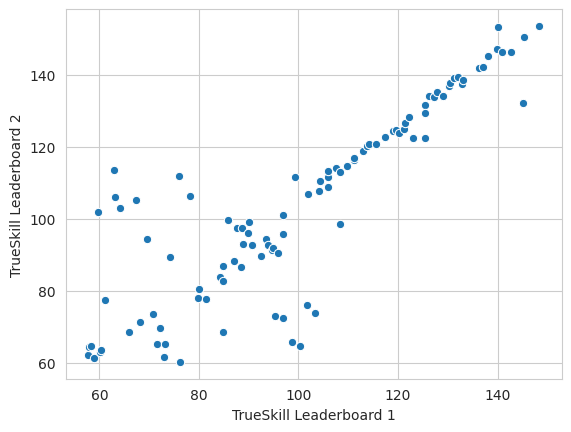
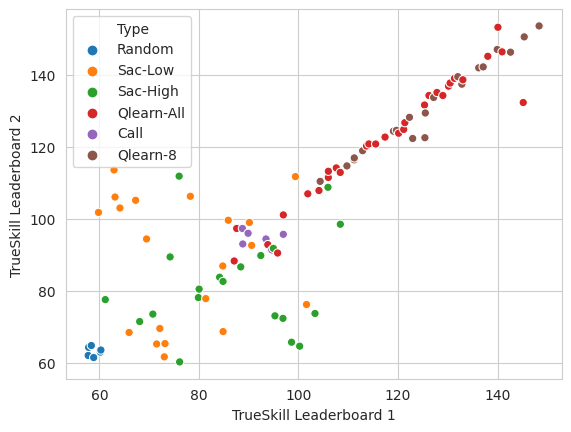
Updated some todos

diff --git a/Implementation/implementation.tex b/Implementation/implementation.tex
@@ -4,19 +4,17 @@
 We set up a modular training environment to compare different agent populations. The different divisions can be used to observe how agents influence each other, which match up method produces the best results, and allows comparing agents that have not been trained against each other. \todo{fix wording}
 
 \subsection{Agent Manager}
-The agent manager is the \todo{phrasing} single source of truth for all agents, and is responsible for instantiating agents. It tags every agent with a unique id so other components only need to store agent id. This removes redundancy and also makes it easy to change agent information without side effects.
+The agent manager is the single source of truth for all agents, and is responsible for instantiating agents. It tags every agent with a unique id so other components only need to store agent id. This removes redundancy and also makes it easy to change agent information without side effects.
 
-\todo{phrasing?}
 The agent manager keeps all important information about an agent: type, paths to model files, whether the agent is trainable or not, origin division and its name.
 \todo{explain more}
 
 \subsection{Leaderboard}
 A leaderboard ranks agents from best to worst according to one of the metrics. There are several different types of leaderboards using different metrics (e.g. TrueSkill, winnings, etc.). When a match in a division concludes, all leaderboards attached to the division are updated with the results. Further detail on the different metrics in section \ref{PerformanceMetricsSection}.
 
-\todo{matchup or match up}
+\todo{matchup, match-up, or match up?}
 
 \subsection{Divisions}
-\todo{explain what a division is}
 A division is responsible for generating match ups between agents, running games, and updating leaderboards with the results. There are several types of divisions with different match up rules.
 
 Divisions differentiate between two types of agents: teachers and students. A student is trainable, using one of the algorithms discussed in section \ref{ReinforcementLearningChapter} and adapts its behavior during play. A teacher does not change its behavior and is either a baseline with hard-coded behavior or a clone of a student with fixed weights. Divisions usually have their own set of agents and do not influence outside agents. However, there are some exceptions, as will be explained in sections \ref{PermEvalSimilarDiv} and \ref{PermEvaldirectDiv}.
@@ -27,11 +25,10 @@ The random division requires at least one student and one teacher, and keeps a l
 \subsubsection{Climbing Division}
 The climbing division also requires at least one student and one teacher, and keeps a list of its own agents. Unlike the random division, this division requires a TrueSkill-based leaderboard to function. The goal of this division is to match students more frequently against better teachers.
 
-This division selects teachers weighted by their TrueSkill rating. The probability of an agent being selected is:
+This division selects teachers weighted by their TrueSkill rating. Let $\mu_i$ denote the TrueSkill rating of the $i$'th agent, then that agent's probability $p(Selected)$ among the $n$ other agents is:
 \begin{equation}
-  P_i = \frac{{ts_i}^2}{\sum_{j=0}^{n} {ts_j}^2}
+  p(Selected) = \frac{{\mu_i}^2}{\sum_{j=0}^{n} {\mu_j}^2}
 \end{equation}
-\todo{update symbol table}
 This is repeated five times, making it likely that the best agent is chosen multiple times.
 
 This has two problems: first, a new agent is assumed to have an average rating, but is likely one of the best agents. Because of this, the agent might only rarely play and therefore take a long time to converge to its actual TrueSkill rating. Second, with a large number of agents there is an inequality between the number of games played per agent which also causes the TrueSkill rating of rarely appearing agents to be unreliable.
@@ -46,7 +43,7 @@ This division does not have an internal agent list, and uses the agent manager d
 \subsubsection{Permanent Evaluation Direct Division}\label{PermEvaldirectDiv}
 Short "PermaEvalDirect", this division is special, as it compares only two agents against each other. It selects two random agents from the entire pool and creates three instances of each agent. The two agents must be different and the division tracks previously run matchups and prioritizes those that were not run before.
 
-This division is specifically designed to compute the winnings \todo{refere to winning metric} metric.
+This division is specifically designed to compute the winnings metric (section \ref{Winnings}).
 
 \subsection{Division Manager}
 The division manager works similarly to the agent manager in that it handles all divisions with their configurations and tags every division with a unique id. This is used to simplify the running of games, as user can simply add divisions with the desired configuration and agent constellation and then specify which divisions should be run.
@@ -57,23 +54,25 @@ The division manager works similarly to the agent manager in that it handles all
 We did not reimplement TrueSkill, instead using an existing python implementation \cite{TrueSkill_code}. We used a $\beta$ of $\frac{25}{6}$ and a starting distribution $\mathcal{N}(\mu=100, \sigma=30)$ for new agents.
 
 \subsection{Winnings}
+\label{Winnings}
 The winnings metric compares agents in a direct confrontation against each other by matching up both agents with three copies each. For both the average winning is calculated and added to a matrix of all agents.
 
-Seats are randomized to minimize the advantage gained by a better seat. Ideally all seating combinations would be run for an equal number of hands, but this was not implemented because of increased complexity and computational time needed. \todo{add graphic here or only at results?} To improve runtime, matchups that have not been played are first in line for the next evaluation. Because of the quadratic growth of matchups needed this metric is not a good choice for a large number of agents.
+Seats are randomized to minimize the advantage gained by a better seat. Ideally all seating combinations would be run for an equal number of hands, but this was not implemented because of increased complexity and computational time needed.
+
+To improve runtime, matchups that have not been played are first in line for the next evaluation. Because of the quadratic growth of matchups needed this metric is not a good choice for a large number of agents.
 
 To generate a leaderboard from the winnings matrix, the following measures are used:
-\todo{Finish this section}
-- mean of winnings
-- median of winnings, this has the advantage of not being screwed by different performances against very bad agents (e.g. the baseline agents)
-- percentiles (e.g. 10pctl) of winnings, this has the advantage of showing how the agent performs against it's worst match-ups (not to be confused with the best agents) because of possible exploiter agents
-
-\todo{fix numbering}
+\begin{itemize}
+    \item mean of winnings
+    \item median of winnings, which has the advantage of not being distorted by different performance against terrible agents (e.g. baseline agents)
+    \item percentiles (e.g. 20pctl) of winnings, which has the advantage of showing how the agent performs against its worst matchups, giving a measure of robustness
+\end{itemize}
 
 \subsection{Kendall's Tau}
 
 We use Kendall's Tau \cite{KendallTau} in section \ref{Results} as a measure of distance between rankings. This allows us to describe the similarity between rankings of different measures or between different divisions containing the same agents.
 
-\todo{short explanation of what kendall tau actually does}
+\todo{short explanation of what kendall's tau actually does}
 
 We did not implement the measure ourselves, instead using SciPy's implementation \cite{Scipy} with default parameters.
 
@@ -87,11 +86,9 @@ Some agents play worse than others in all situations. Others might usually win, 
 
 To distinguish which agents were exploiting which how much, we measure cashflow; how much money was each agent giving over to each agent on average.
 
-\todo{IMAGE: insert example cashflow}
-
 Cashflow is computed individually per round, though conceptually it would not be impossible to compute it on average throughout. However, it requires extensive logs containing the individual results of every single hand, to track who wins what, which slows training considerably.
 
-\todo{expand on how we didn't use it}
+While useful for debugging specific early agents, cashflow was both too slow and requires too many games until convergence to be a useful metric in larger runs, so we did not use it in section \ref{Results}.
 
 \subsection{Strategy Vector}
 \label{StrategyVectorComputation}
@@ -107,9 +104,7 @@ Computing this vector takes a few minutes per agent, and represents the bulk of 
 
 Card ranks are calculated differently based on the number of cards. For pre-flop, we use monte-carlo simulation until convergence to generate a table of the victory likelihood of each possible pair, which lets us rank them from best to worse, and divide these into deciles.
 
-For flop, turns, and rivers, this is not feasible. Instead, we computed the card rank as evaluated by Treys \cite{Treys} directly, and compared that with a precomputed table of the number of possible hands that have higher rank. This is not perfectly equal to the likelihood of a hand winning, but much easier to compute, so we used this approach as an approximation. \todo{consider giving an example, here}
-
-\todo{IMAGE: card rank distributions: flop, turn, river}
+For flop, turns, and rivers, this is not feasible. Instead, we computed the card rank as evaluated by Treys \cite{Treys} directly, and compared that with a precomputed table of the number of possible hands that have higher rank. This is not perfectly equal to the likelihood of a hand winning, but much easier to compute, so we used this approach as an approximation.
 
 \subsection{Aggression and Tightness}
 
@@ -157,7 +152,7 @@ In doing so we also made changes to the algorithm. The biggest change was droppi
 
 Because the final reward of folding is always known ($r = -(current\ stake)$), we do not use Q-Learning to compute the outcome of folding, and the inverse of the current investment is used directly as the Q-function score of the folding action. This allows us to avoid having to explore randomly folding in the middle of games, which dramatically increases skill and prevents the agent from playing too cautiously because it knows that it will throw a fraction of games.
 
-Our input to all Q-Learning agents is the same 404-dimensional vector \todo{check this number} (as is also for SAC agents). It is composed of one-hot representation of the sorted hole cards, the sorted community cards (with an extra one-hot slot for "hidden"), which players have folded, which players put how much of their capital into the pot so far in the entire hand, which players put how much into the pot in this betting round, which player was the last to raise, which player is the current agent/where it is seated, which betting round it is in, and what is the card rank percentile of the current hand computed in the same way as described in section \ref{StrategyVectorComputation}.
+Our input to all Q-Learning agents is the same 404-dimensional vector (as is also for SAC agents). It is composed of one-hot representation of the sorted hole cards, the sorted community cards (with an extra one-hot slot for "hidden"), which players have folded, which players put how much of their capital into the pot so far in the entire hand, which players put how much into the pot in this betting round, which player was the last to raise, which player is the current agent/where it is seated, which betting round it is in, and what is the card rank percentile of the current hand computed in the same way as described in section \ref{StrategyVectorComputation}.
 
 We use two variants of action spaces in the results section, after some explorative experimentation with other variants: The Qlearn-8 agent with 8 different actions (call, raise 4, raise 8, raise 16, raise 32, raise 64, raise 100, raise 200), and a Qlearn-All agent with 201 different actions (call, raise 1, raise 2, \dots, raise 199, raise 200).
 

diff --git a/Methods/methods.tex b/Methods/methods.tex
@@ -82,7 +82,6 @@ This bootstrapping of two neural networks on each other is often unstable, so SA
 
 To understand SAC's approach to exploration, it is necessary to introduce the concept of policy entropy. The entropy of a policy is a measure of how difficult it is to predict what action it will select given a state. A deterministic policy that always returns the same action given the same state has entropy zero. The entropy of a stochastic policy in a specific state can be calculated by:
 
-\todo{rethink arguments}
 \begin{equation}
     H(\pi, s) \coloneqq \sum_{a \in \pi(s)}{-P_{\pi, s}(a) log\big(P_{\pi, s}(a)\big)}
 \end{equation} where $P_{\pi, s}(a)$ is the probability of policy $\pi$ choosing action $a$ in state $s$. This can be understood as "The entropy of policy $\pi$ in state $s$ is the sum of $-log\big(P_{\pi, s}(a)\big)$ for every possible action, weighed by the probability of $\pi$ selecting that action".
@@ -91,7 +90,7 @@ SAC implements so-called entropy regularization. Not only does it attempt to max
 
 To train the Q-functions, equation (\ref{bellman_q}) is used with the added entropy bonus:
 \begin{equation}
-    Q_{\pi}(s, a) = r(s) + \gamma \bigg(Q_{\pi}\Big(Env(s, a), \pi\big(Env(s, a)\big)\Big) + \alpha H\big(\pi(s)\big)\bigg)
+    Q_{\pi}(s, a) = r(s) + \gamma \bigg(Q_{\pi}\Big(Env(s, a), \pi\big(Env(s, a)\big)\Big) + \alpha H(\pi, s)\bigg)
 \end{equation}
 $\alpha$ is called the temperature and is a parameter to control the exploration-exploitation trade off, as it regulates how strongly weighed the entropy bonus should be.
 
@@ -102,7 +101,7 @@ The policy function does not return an arbitrary distribution. For simplicity, t
 TrueSkill is a skill rating system developed by Microsoft in 2007 that attempts to measure relative skill of players in repeated games \cite{TrueSkill_original} \cite{TrueSkill_blog}.
 
 \todo{reword section}
-It supports flexible team setups by assuming team skill to be the sum of player skill, draws, and more than 2 teams. It also boasts a solid theoretical foundation. This makes it much more suitable for Texas Hold'em (6-player free-for-all) than ELO \cite{Elo} or other common skill ranking systems.
+It supports flexible team setups, draws, and more than 2 teams. It also boasts a solid theoretical foundation. This makes it more suitable for Texas Hold'em (a 6-player free-for-all) than ELO \cite{Elo} or other common skill ranking systems that are designed for two competing teams.
 
 TrueSkill assumes each player has a numeric skill rating. The delta between two players' skill ratings represents the likelihood of one player winning. The scale involved is arbitrary and defined through the choice of a parameter $\beta$, where a player being $\beta$ points above another implies that player has an approximately 76\% chance\footnote{Specifically, $\Phi\left(\frac{1}{\sqrt{2}}\right)$, where $\Phi(x)$ is the cumulative density function of the standard normal distribution.} of winning if matched against each other.
 
@@ -112,4 +111,4 @@ When players match up against each other, TrueSkill performs a bayesian update, 
 
 For judging victories, TrueSkill only takes the player ranking during a match into account, whether they won first place, won second place, and so on. It does not take into account by how much they won, a narrow victory is equivalent to an overwhelming one, and the skill rankings only reflect how likely it is for a player to beat another, not by how much.
 
-This has important consequences regarding poker, as a bad player occasionally wins against a better player \todo{find better formulation} thanks to lucky card, and these occasional victories would have great impact on the ratings due to it being an upset. To remedy this, we group hands into a round of 10'000 hands, tally the total winnings of the round, and consider the full round a single match in TrueSkill. The larger the round, the lower the probability that a bad player beats a good player out of luck, and thus the more stable TrueSkill becomes.
+This has important consequences regarding poker, as a bad player occasionally wins against a better player thanks to lucky cards, and these occasional victories would have great impact on the ratings due to it being an upset. To remedy this, we group hands into a round of 10'000 hands, tally the total winnings of the round, and consider the full round a single match in TrueSkill. The larger the round, the lower the probability that a bad player beats a good player out of luck, and thus the more stable TrueSkill becomes.

diff --git a/Results/results.tex b/Results/results.tex
@@ -131,7 +131,6 @@ We computed winnings with 10'000 hands per agent pairing of all 102 agents, for 
 \end{table}
 
 \begin{code}
-    -discussion
     -correlation (kendall-tau)
     -sorting by n upsets
 \end{code}
@@ -162,33 +161,27 @@ We computed winnings with 10'000 hands per agent pairing of all 102 agents, for 
 \label{AggTightRank}
 \end{figure}
 
-\begin{code}
-    -discussion
-\end{code}
-
 \subsection{TrueSkill Coherence}
 \begin{figure}[H]
 \centering
 \subcaptionbox{
-    TrueSkill over time in the first PermaEval division
+    First PermaEval division TrueSkill
 }{
-    \includegraphics[width=\linewidth]{Results/figures/placeholder.png}
+    \includegraphics[width=\linewidth]{Results/figures/trueskill1.png}
 }
 \subcaptionbox{
-    TrueSkill over time in the second PermaEval division
+    Second PermaEval division TrueSkill
 }{
-    \includegraphics[width=\linewidth]{Results/figures/placeholder.png}
+    \includegraphics[width=\linewidth]{Results/figures/trueskill2.png}
 }
 \caption{TrueSkill over time in both PermaEval divisions, compared}
 \label{TrueSkillCompare}
 \end{figure}
-\begin{code}
-    - discussion
-\end{code}
+
 \begin{figure}[H]
 \centering
     \includegraphics[width=0.8\linewidth]{Results/figures/trueskill_comparison.png}
-\caption{Agent rank in both TrueSkill PermaEval divisions}
+\caption{Agent rank in both TrueSkill PermaEval divisions, colored by type}
 \label{TrueSkillCompare2}
 \end{figure}
 \begin{code}
@@ -267,31 +260,26 @@ We computed winnings with 10'000 hands per agent pairing of all 102 agents, for 
 \subcaptionbox{
     Ranked by TrueSkill
 }{
-    \includegraphics[width=0.45\linewidth]{Results/figures/placeholder.png}
+    \includegraphics[width=0.45\linewidth]{Results/figures/generationsTrueSkill.png}
 }
 \subcaptionbox{
     Ranked by Mean
 }{
-    \includegraphics[width=0.45\linewidth]{Results/figures/placeholder.png}
+    \includegraphics[width=0.45\linewidth]{Results/figures/generationsMean.png}
 }
 \subcaptionbox{
     Ranked by Median
 }{
-    \includegraphics[width=0.45\linewidth]{Results/figures/placeholder.png}
+    \includegraphics[width=0.45\linewidth]{Results/figures/generationsMedian.png}
 }
 \subcaptionbox{
     Ranked by 20-Percentile
 }{
-    \includegraphics[width=0.45\linewidth]{Results/figures/placeholder.png}
+    \includegraphics[width=0.45\linewidth]{Results/figures/generations20-Percentile.png}
 }
-\caption{Agent evolution over time by type and rank [LINE GENERATIONPLOT]}
+\caption{Agent evolution over time by type and rank}
 \label{AgentGenerations}
 \end{figure}
-
-\begin{code}
-    - convergence speed
-    - skill cap
-\end{code}
 
 \section{Populations}
 \begin{table}[H]
@@ -300,7 +288,6 @@ We computed winnings with 10'000 hands per agent pairing of all 102 agents, for 
  \hline
  Rank & TrueSkill & Mean & Median & 20-Percentile \\ [0.5ex] 
  \hline\hline
- \todo{wrong table}
    1 &   Qln8-Cl &   QlnA-Cl &   QlnA-Cl &       QlnA-Rn \\
    2 &   Qln8-Cl &   QlnA-Cl &   Qln8-Cl &       QlnA-Cl \\
    3 &   QlnA-Rn &   QlnA-Cl &   Qln8-Cl &       Qln8-Cl \\

diff --git a/symbols.tex b/symbols.tex
@@ -18,5 +18,7 @@
   \item[$\psi$] The polyak averaging constant\\
   \item[$P_{\pi, s}(a)$] The probability of policy $\pi$ selecting action $a$ in state $s$\\
   \item[$\alpha$] The Soft Actor-Critic temperature, the relative weight of the entropy bonus to the reward\\
-  \item[$\beta$] The "skill chain length" of TrueSkill, skill rating difference representing a 76\% win likelihood
+  \item[$\beta$] The "skill chain length" of TrueSkill, skill rating difference representing a 76\% win likelihood\\
+  \item[$\mu$] The mean of a player's TrueSkill rating distribution, which is also assumed to be the player's actual rating\\
+  \item[$p(Selected)$] Probability of an agent being selected in a climbing division\\
 \end{description}
